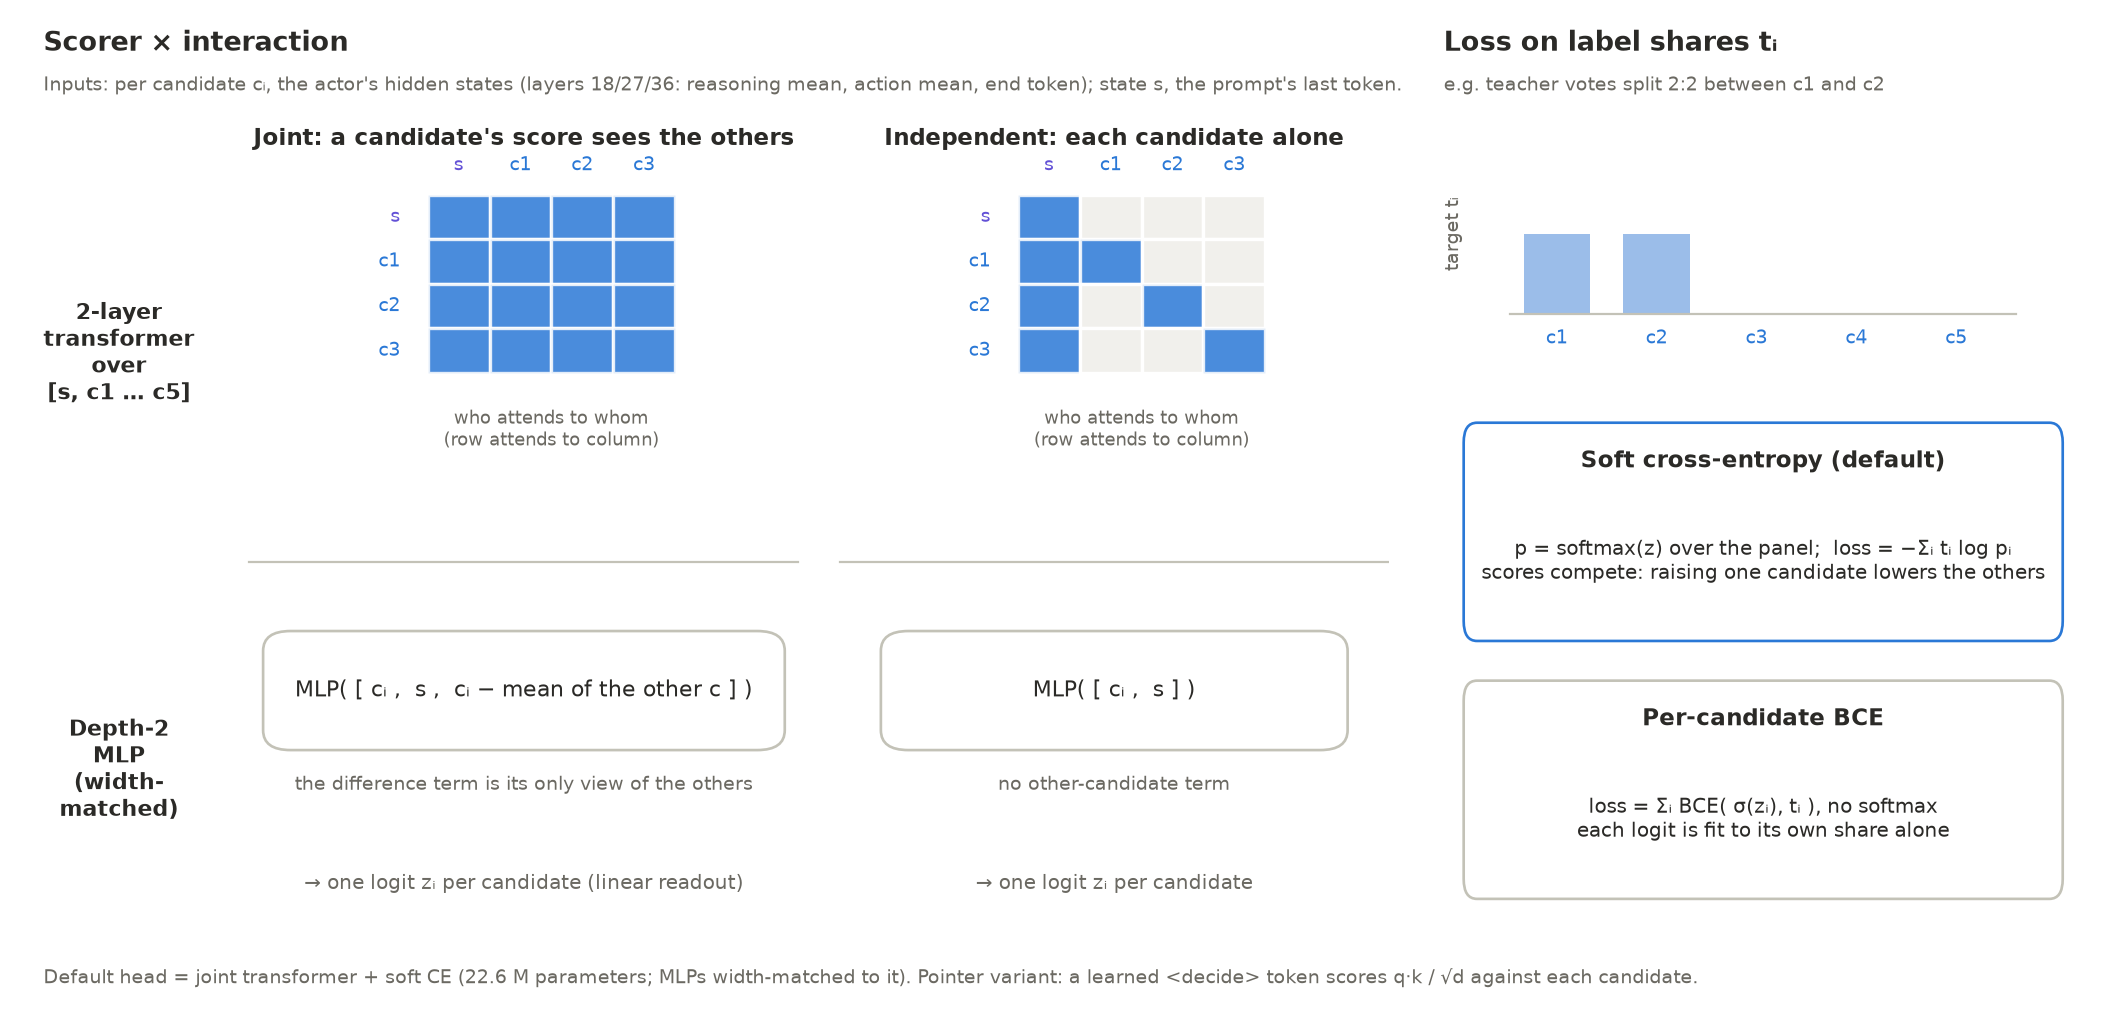
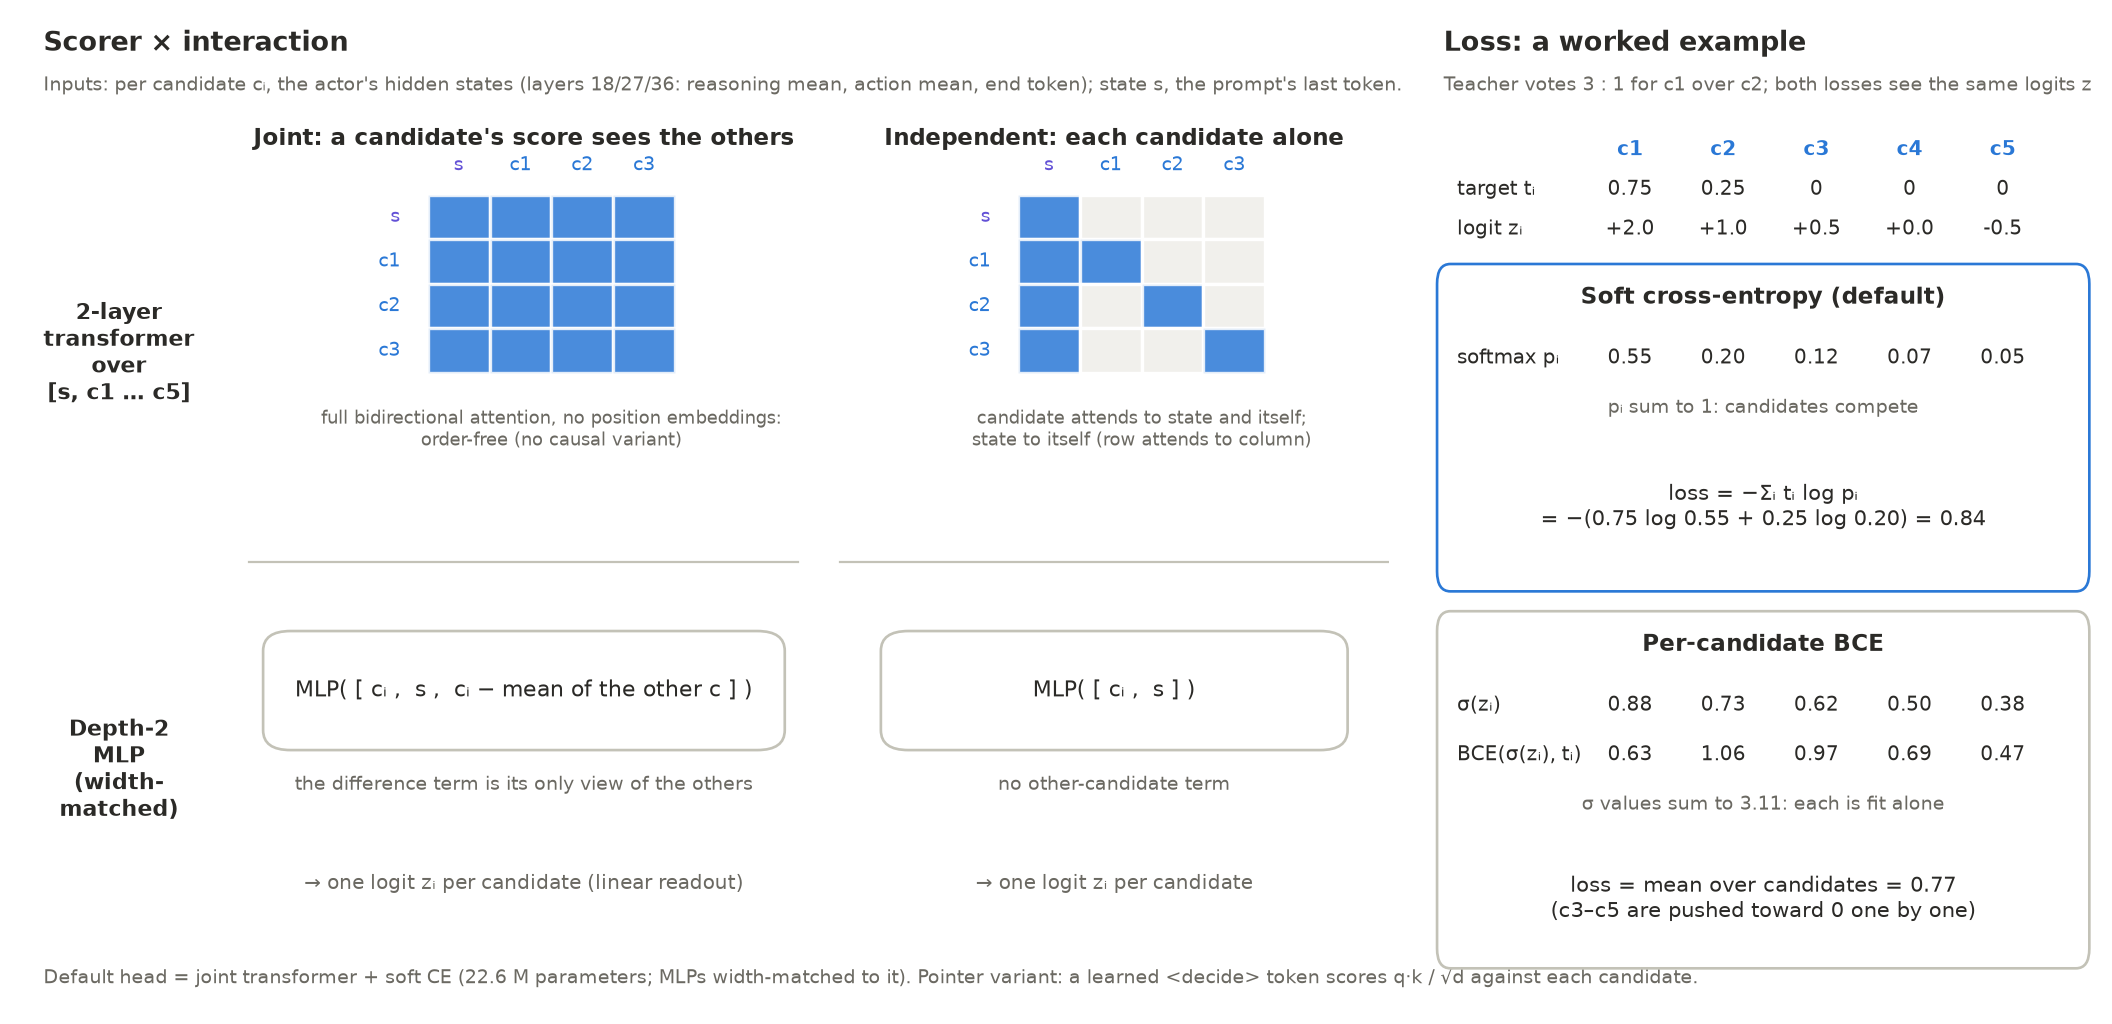
Head-variant figure: worked loss example (3:1 target), note joint attention is bidirectional and order-free

diff --git a/openwebrl/docs/arm_results/methods/selection-head-variants-20261022.py b/openwebrl/docs/arm_results/methods/selection-head-variants-20261022.py
@@ -26,7 +26,7 @@ def attention(ax, x0, y0, cell, joint):
             allowed = joint or i == j or (i > 0 and j == 0)
             ax.add_patch(Rectangle((x0 + j * cell, y0 - (i + 1) * cell), cell, cell, fc=ON if allowed else OFF, ec="white", lw=1.5,
                                    alpha=0.85 if allowed else 1))
-    ax.text(x0 + 2 * cell, y0 - 4 * cell - 0.035, "who attends to whom\n(row attends to column)", ha="center", va="top", fontsize=8, color=MUTED)
+    ax.text(x0 + 2 * cell, y0 - 4 * cell - 0.035, ("full bidirectional attention, no position embeddings:\norder-free (no causal variant)" if joint else "candidate attends to state and itself;\nstate to itself (row attends to column)"), ha="center", va="top", fontsize=8, color=MUTED)
 
 
 ax = fig.add_axes([0, 0, 0.66, 1]); ax.set_xlim(0, 1); ax.set_ylim(0, 1); ax.axis("off")
@@ -50,28 +50,33 @@ ax.text(0.80, 0.12, "→ one logit zᵢ per candidate", ha="center", fontsize=9,
 ax.text(0.02, 0.025, "Default head = joint transformer + soft CE (22.6 M parameters; MLPs width-matched to it). "
         "Pointer variant: a learned <decide> token scores q·k / √d against each candidate.", fontsize=8.5, color=MUTED)
 
-# losses
+# losses: worked example
 lx = fig.add_axes([0.68, 0, 0.32, 1]); lx.set_xlim(0, 1); lx.set_ylim(0, 1); lx.axis("off")
-lx.text(0.02, 0.965, "Loss on label shares tᵢ", fontsize=12, weight="bold")
-lx.text(0.02, 0.925, "e.g. teacher votes split 2:2 between c1 and c2", fontsize=8.5, color=MUTED)
-t = [0.5, 0.5, 0, 0, 0]
-
-
-def bars(y0, vals, color, label):
-    for k, v in enumerate(vals):
-        lx.add_patch(Rectangle((0.14 + k * 0.15, y0), 0.1, 0.16 * v, fc=color, ec="none"))
-        lx.text(0.19 + k * 0.15, y0 - 0.03, f"c{k + 1}", ha="center", fontsize=8.5, color=CAND)
-    lx.plot([0.12, 0.88], [y0, y0], color=GRID, lw=1)
-    lx.text(0.02, y0 + 0.08, label, fontsize=8.5, color=MUTED, rotation=90, va="center")
-
-
-bars(0.70, t, "#9bbde9", "target tᵢ")
-box(lx, 0.06, 0.38, 0.88, 0.2, "", ec=CAND)
-lx.text(0.5, 0.545, "Soft cross-entropy (default)", ha="center", fontsize=10.5, weight="bold")
-lx.text(0.5, 0.45, "p = softmax(z) over the panel;  loss = −Σᵢ tᵢ log pᵢ\nscores compete: raising one candidate lowers the others",
-        ha="center", va="center", fontsize=9)
-box(lx, 0.06, 0.12, 0.88, 0.2, "", ec=GRID)
-lx.text(0.5, 0.285, "Per-candidate BCE", ha="center", fontsize=10.5, weight="bold")
-lx.text(0.5, 0.19, "loss = Σᵢ BCE( σ(zᵢ), tᵢ ), no softmax\neach logit is fit to its own share alone",
-        ha="center", va="center", fontsize=9)
+lx.text(0.02, 0.965, "Loss: a worked example", fontsize=12, weight="bold")
+lx.text(0.02, 0.925, "Teacher votes 3 : 1 for c1 over c2; both losses see the same logits z", fontsize=8.5, color=MUTED)
+import math
+t = [0.75, 0.25, 0, 0, 0]; z = [2.0, 1.0, 0.5, 0.0, -0.5]
+e = [math.exp(v) for v in z]; p = [v / sum(e) for v in e]
+sig = [1 / (1 + math.exp(-v)) for v in z]
+bce = [-(ti * math.log(si) + (1 - ti) * math.log(1 - si)) for ti, si in zip(t, sig)]
+ce = -sum(ti * math.log(pi) for ti, pi in zip(t, p) if ti)
+xs = [0.30 + k * 0.14 for k in range(5)]
+def row(y, label, vals, fmt="{:.2f}", color=INK, weight="normal"):
+    lx.text(0.04, y, label, fontsize=9, va="center", color=color, weight=weight)
+    for x, v in zip(xs, vals):
+        lx.text(x, y, fmt.format(v) if isinstance(v, float) else v, ha="center", va="center", fontsize=9, color=color, weight=weight)
+row(0.865, "", [f"c{k + 1}" for k in range(5)], color=CAND, weight="bold")
+row(0.825, "target tᵢ", t)
+row(0.785, "logit zᵢ", z, "{:+.1f}")
+box(lx, 0.02, 0.43, 0.96, 0.31, "", ec=CAND)
+lx.text(0.5, 0.71, "Soft cross-entropy (default)", ha="center", fontsize=10.5, weight="bold")
+row(0.655, "softmax pᵢ", p)
+lx.text(0.5, 0.60, "pᵢ sum to 1: candidates compete", ha="center", fontsize=8.5, color=MUTED)
+lx.text(0.5, 0.505, "loss = −Σᵢ tᵢ log pᵢ\n= −(0.75 log %.2f + 0.25 log %.2f) = %.2f" % (p[0], p[1], ce), ha="center", va="center", fontsize=9.5)
+box(lx, 0.02, 0.05, 0.96, 0.34, "", ec=GRID)
+lx.text(0.5, 0.36, "Per-candidate BCE", ha="center", fontsize=10.5, weight="bold")
+row(0.305, "σ(zᵢ)", sig)
+row(0.255, "BCE(σ(zᵢ), tᵢ)", bce)
+lx.text(0.5, 0.20, "σ values sum to %.2f: each is fit alone" % sum(sig), ha="center", fontsize=8.5, color=MUTED)
+lx.text(0.5, 0.11, "loss = mean over candidates = %.2f\n(c3–c5 are pushed toward 0 one by one)" % (sum(bce) / 5), ha="center", va="center", fontsize=9.5)
 fig.savefig(Path(__file__).with_suffix(".png"), dpi=160, bbox_inches="tight", facecolor="white")

diff --git a/openwebrl/docs/ARM_SELECTION_HEAD.md b/openwebrl/docs/ARM_SELECTION_HEAD.md
@@ -147,7 +147,7 @@
 
 **Architecture variants.** The screen below crosses interaction (joint / independent) with the scorer (transformer / MLP) and the loss (soft CE / per-candidate BCE); every variant reads the same frozen actor features and has about 22.6 M parameters.
 
-![Selection-head variants: a joint transformer lets every candidate attend to every other, an independent one masks attention so each candidate sees only the state and itself; a joint MLP adds the candidate minus the mean of the others, an independent MLP sees only the candidate and the state; soft cross-entropy fits a softmax over the panel to the label shares, per-candidate BCE fits each logit to its own share](arm_results/methods/selection-head-variants-20261022.png)
+![Selection-head variants: a joint transformer uses full bidirectional attention without position embeddings, so every candidate attends to every other and order does not matter, an independent one masks attention so each candidate sees only the state and itself; a joint MLP adds the candidate minus the mean of the others, an independent MLP sees only the candidate and the state; a worked example with a 3 : 1 target shows soft cross-entropy on the softmax (0.84) and per-candidate BCE on each sigmoid (0.77) for the same logits](arm_results/methods/selection-head-variants-20261022.png)
 
 *[Figure script](arm_results/methods/selection-head-variants-20261022.py); code `openwebrl/selection_head.py` (`CandidateSetHead`, `selection_loss`, `pointwise_bce_loss`).*
 
